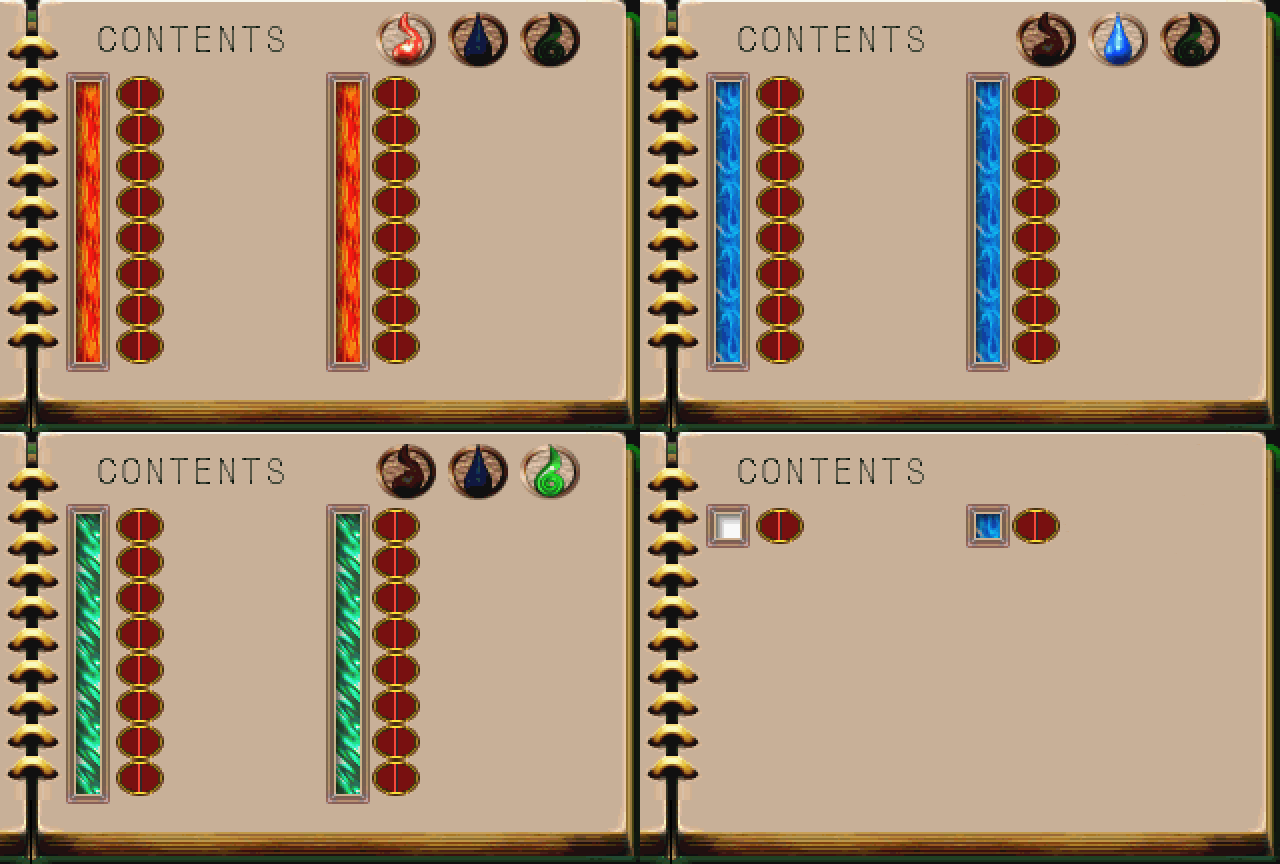
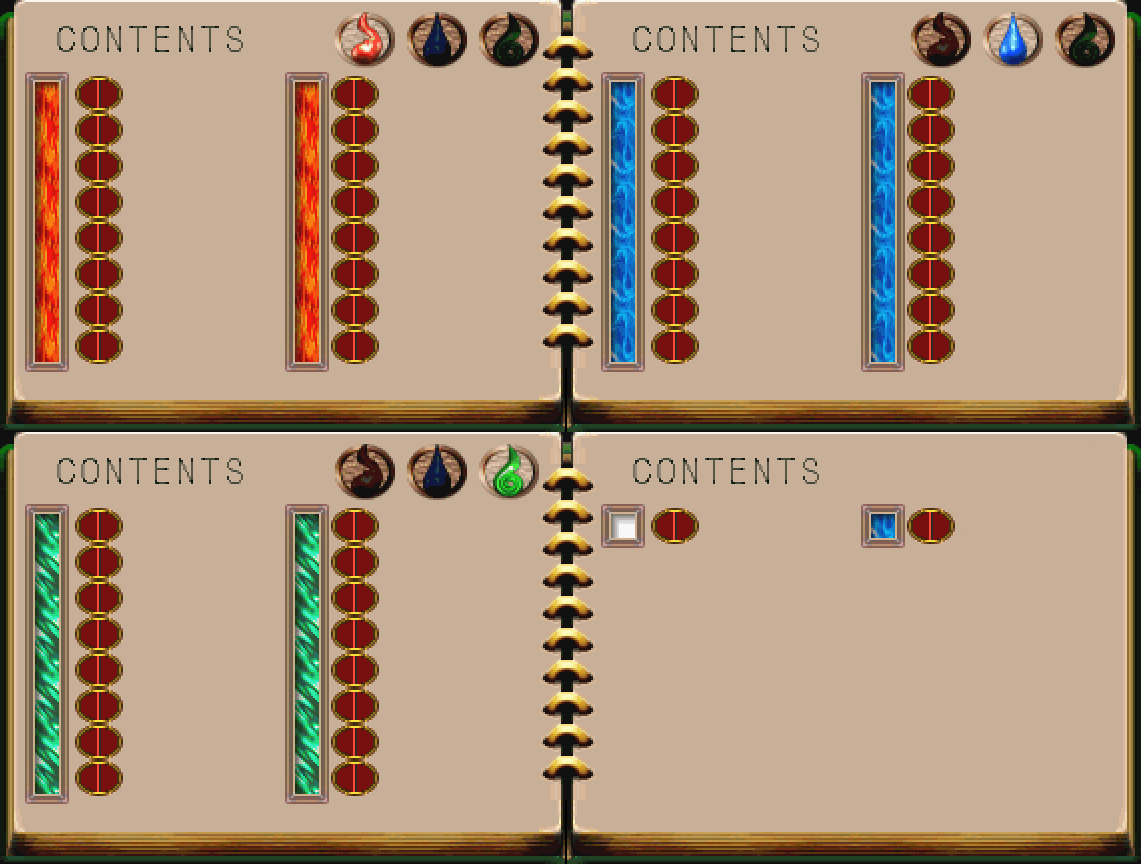
edit book image for aesthetics and reduced horizontal space

diff --git a/book_tracker.py b/book_tracker.py
@@ -27,7 +27,7 @@ if __name__ == '__main__':
     # Graphic display window
     graphic = Tk()
     graphic.title("Monster book graphical display")
-    graphic.geometry("1280x864")
+    graphic.geometry("1141x864")
     save_photo = None
     save_label = Label(graphic, image='', borderwidth=0)
     save_label.place(x=0, y=0)
@@ -66,13 +66,13 @@ if __name__ == '__main__':
         for monster, var in monster_vars.items():
             if var.get():
                 monster_image = Image.open(resource_path('data_book/' + monster + '.png'))
-                x, y = 116, 76
+                x, y = 75, 76
                 page, col, row = monster_coords[monster]
                 if col:
                     x += 256
                 y += (36*row)
                 if page in (1, 3):
-                    x += 640
+                    x += 576
                 if page in (2, 3):
                     y += 432
 
@@ -93,7 +93,7 @@ if __name__ == '__main__':
     def handle_mouse_click(event):
         x, y = event.x, event.y
         # find page
-        if x >= 640:
+        if x >= 576:
             if y >= 432:
                 page = 3
             else:
@@ -102,11 +102,11 @@ if __name__ == '__main__':
             page = 2
         else:
             page = 0
-        x %= 640
+        x %= 576
         y %= 432
 
         # find col
-        x -= 66
+        x -= 25
         col = 1 if x >= 256 else 0
 
         # find row
